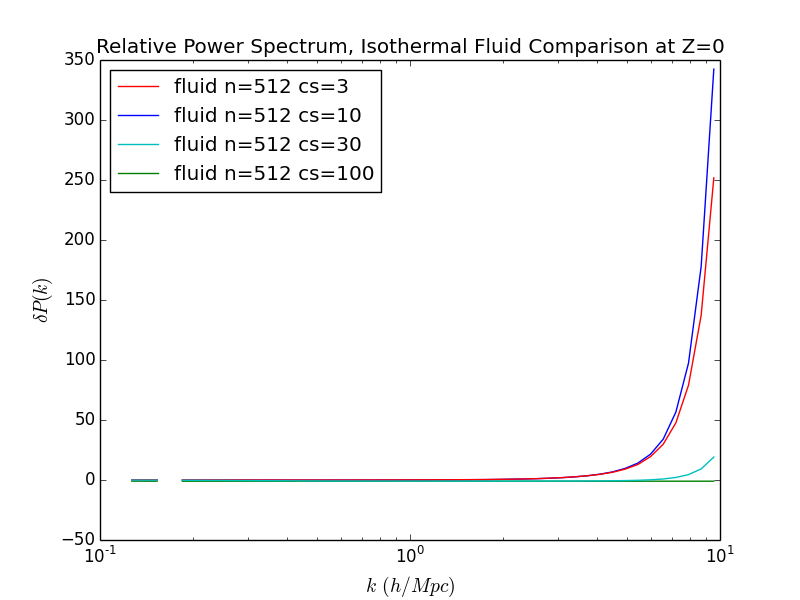
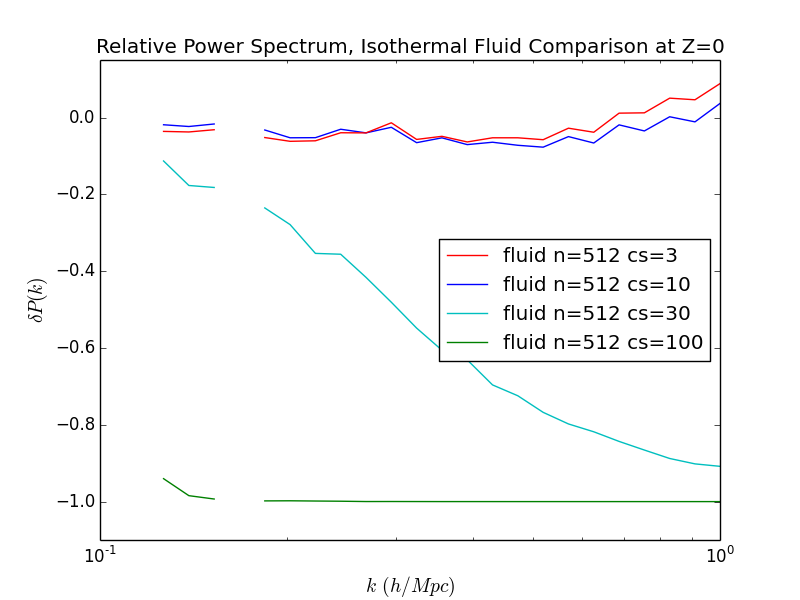
Narrowed range of scales to match particle-normalized axes.

diff --git a/plots/isothermal/isothermal_fluid_low.py b/plots/isothermal/isothermal_fluid_low.py
@@ -31,7 +31,8 @@ handles, labels = plt.gca().get_legend_handles_labels()
 hl = sorted(zip(handles, labels), key=lambda item:  int(item[1].split(' ')[2].split('=')[1]))
 handles2, labels2 = zip(*hl)
 
-plt.xlim([1e-1,1e1])
+plt.xlim([1e-1,1e0])
+plt.ylim([-0.1,0.1])
 plt.xlabel('$k \, (h/Mpc)$', fontsize=14)
 plt.ylabel('$\delta P(k)$', fontsize=14)
 plt.title('Relative Power Spectrum, Isothermal Fluid Comparison, Low Sound Speeds')

diff --git a/plots/isothermal/isothermal_fluid_high.py b/plots/isothermal/isothermal_fluid_high.py
@@ -31,7 +31,8 @@ handles, labels = plt.gca().get_legend_handles_labels()
 hl = sorted(zip(handles, labels), key=lambda item:  int(item[1].split(' ')[2].split('=')[1]))
 handles2, labels2 = zip(*hl)
 
-plt.xlim([1e-1,1e1])
+plt.xlim([1e-1,1e0])
+plt.ylim([-1.1,0])
 plt.xlabel('$k \, (h/Mpc)$', fontsize=14)
 plt.ylabel('$\delta P(k)$', fontsize=14)
 plt.title('Relative Power Spectrum, Isothermal Fluid Comparison, High Sound Speeds')

diff --git a/plots/isothermal/isothermal_fluid.py b/plots/isothermal/isothermal_fluid.py
@@ -30,7 +30,8 @@ handles, labels = plt.gca().get_legend_handles_labels()
 hl = sorted(zip(handles, labels), key=lambda item:  int(item[1].split(' ')[2].split('=')[1]))
 handles2, labels2 = zip(*hl)
 
-plt.xlim([1e-1,1e1])
+plt.xlim([1e-1,1e0])
+plt.ylim([-1.1,0.15])
 plt.xlabel('$k \, (h/Mpc)$', fontsize=14)
 plt.ylabel('$\delta P(k)$', fontsize=14)
 plt.title('Relative Power Spectrum, Isothermal Fluid Comparison at Z=0')
